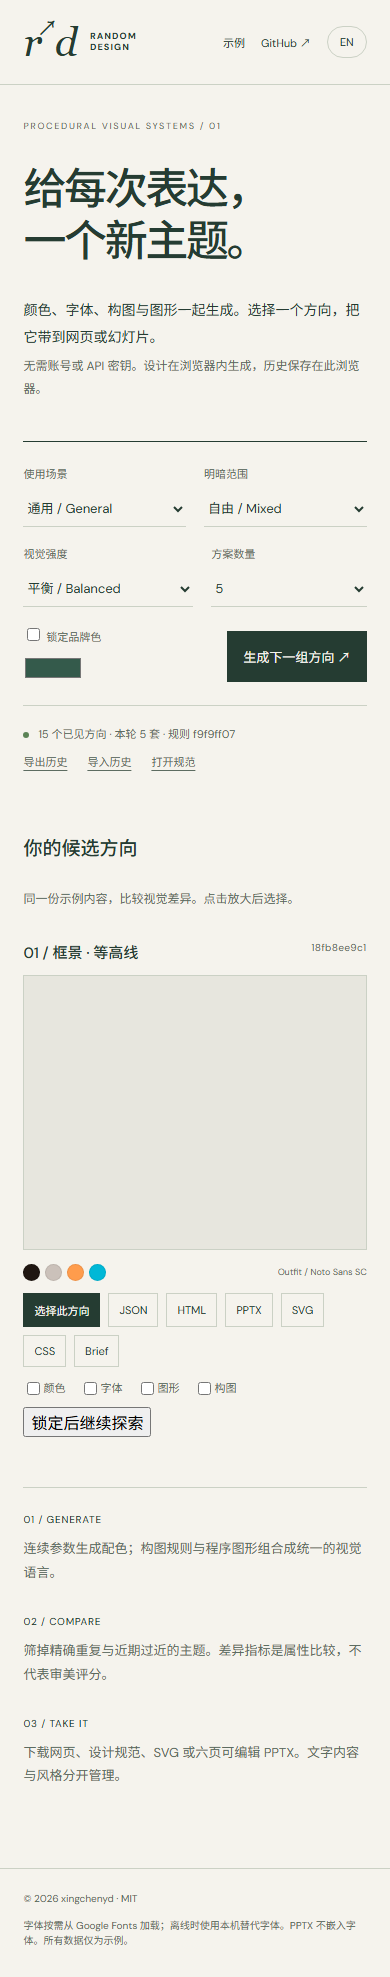
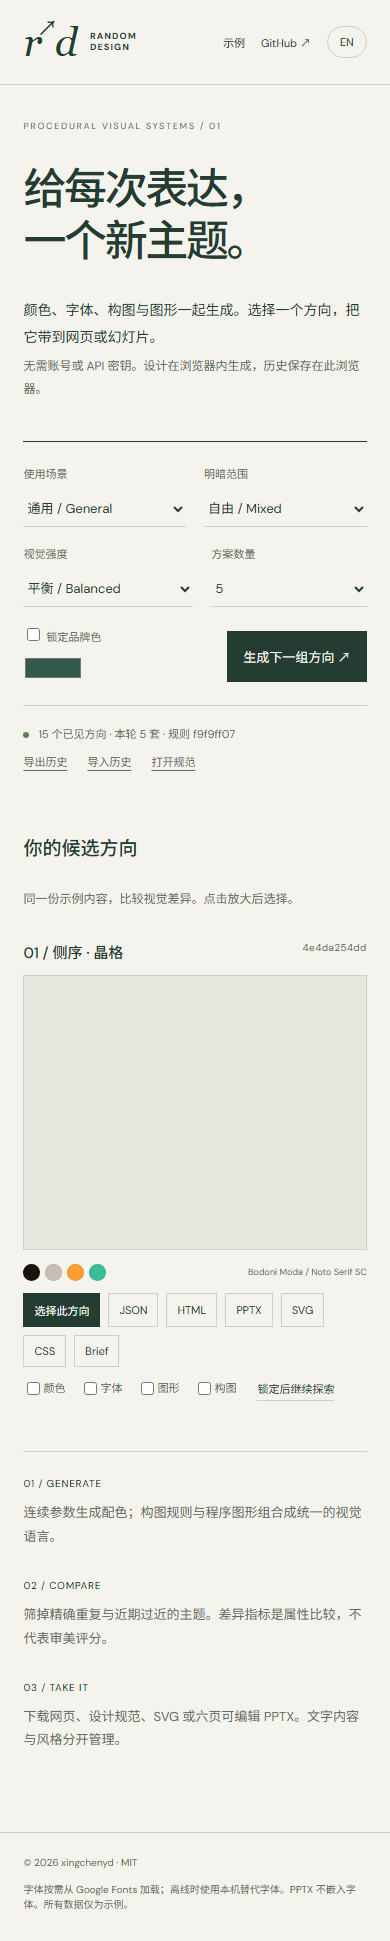
chore: verify public deployment and tidy portable build artifacts

diff --git a/studio/studio.css b/studio/studio.css
@@ -1,3 +1,4 @@
 @import url('https://fonts.googleapis.com/css2?family=DM+Sans:wght@400;500;600;700&family=Noto+Sans+SC:wght@400;500;600;700&display=swap');
 :root{--paper:#f5f3ed;--ink:#253c32;--muted:#5d6c61;--rule:#cbd1c5;--accent:#dce9ad}*{box-sizing:border-box}body{margin:0;background:var(--paper);color:var(--ink);font-family:'DM Sans','Noto Sans SC',sans-serif}a{color:inherit;text-decoration:none}button,select,input{font:inherit}button,a,input,select,.file-button{touch-action:manipulation}button{cursor:pointer}button:disabled{cursor:wait;opacity:.55}button:focus-visible,a:focus-visible,input:focus-visible,select:focus-visible,.file-button:focus-visible{outline:3px solid #437c5b;outline-offset:4px}main,.masthead,footer{max-width:1480px;margin:auto;padding-left:5%;padding-right:5%}.masthead{height:106px;display:flex;justify-content:space-between;align-items:center;border-bottom:1px solid var(--rule)}.brand{display:flex;gap:17px;align-items:center;font-size:11px;line-height:1.25;letter-spacing:.13em;font-weight:700}.mark{font:italic 49px Georgia;letter-spacing:-6px;position:relative;padding-right:7px}.mark span{font:23px system-ui;position:relative;top:-21px;letter-spacing:-4px}nav{display:flex;align-items:center;gap:30px;font-size:13px}.lang{border:1px solid var(--rule);background:none;padding:8px 12px;border-radius:30px;color:var(--ink)}.intro{padding:62px 0 50px;display:grid;grid-template-columns:1.4fr 1fr;gap:20px 70px;align-items:end}.kicker{grid-column:1/-1;font-size:11px;letter-spacing:.19em;margin:0 0 7px;color:var(--muted)}h1{font-size:clamp(40px,5vw,72px);letter-spacing:-.055em;line-height:1.2;font-weight:500;margin:0}.intro-aside{max-width:390px;justify-self:end;font-size:15px;line-height:1.9}.quiet{color:var(--muted);font-size:12px}.workbench{display:flex;align-items:stretch;border-top:1px solid var(--ink);border-bottom:1px solid var(--rule);padding:23px 0;gap:20px}.control{flex:1;min-width:0;display:flex;flex-direction:column;gap:10px}.control label{font-size:11px;color:var(--muted)}select{width:100%;border:0;border-bottom:1px solid var(--rule);background:transparent;color:var(--ink);font-size:13px;padding:8px 14px 8px 0;cursor:pointer;border-radius:0}.small{flex:.55}.brand-control{flex:.9}.brand-control input[type=color]{border:0;padding:0;width:60px;height:28px;background:none}.brand-control input[type=checkbox]{accent-color:var(--ink)}.generate{border:0;background:var(--ink);color:#f5f3ed;padding:17px 23px;align-self:end;font-size:13px;white-space:nowrap}.generate:hover{background:#41634d}.toolbar{display:flex;justify-content:space-between;gap:20px;padding:19px 0;color:var(--muted);font-size:11px;line-height:1.8}.live-dot{display:inline-block;width:6px;height:6px;border-radius:50%;background:#5b8356;margin-right:9px}.history-tools{display:flex;gap:17px;align-items:center;flex-shrink:0}.history-tools button,.file-button{background:none;border:0;padding:0;color:var(--muted);font-size:11px;text-decoration:underline;text-underline-offset:4px;cursor:pointer}.notice{border-left:3px solid #a04732;padding:12px 18px;background:#f5e9df;font-size:13px;line-height:1.7}.result-heading{display:flex;justify-content:space-between;align-items:baseline;margin:26px 0 22px;gap:20px}.result-heading h2{font-size:19px;font-weight:500}.result-heading p{font-size:12px;color:var(--muted)}.results{display:grid;grid-template-columns:repeat(2,minmax(0,1fr));gap:38px 28px}.design-card{min-width:0}.design-head{display:flex;justify-content:space-between;align-items:baseline;gap:10px;margin-bottom:12px}.design-head h3{font-size:15px;font-weight:500;margin:0}.design-head small{font-size:10px;color:var(--muted);letter-spacing:.04em}.preview-wrap{aspect-ratio:1.38;background:#e7e6de;border:1px solid var(--rule);position:relative;overflow:hidden;cursor:zoom-in}.preview-wrap iframe{width:1200px;height:870px;border:0;transform-origin:top left;pointer-events:none}.card-bottom{display:flex;align-items:center;justify-content:space-between;gap:12px;padding:14px 0 12px}.swatches{display:flex;gap:5px}.swatches span{width:17px;height:17px;border:1px solid #0001;border-radius:50%}.card-type{font-size:10px;color:var(--muted);overflow:hidden;text-overflow:ellipsis;white-space:nowrap;max-width:70%}.actions{display:flex;gap:8px;flex-wrap:wrap}.actions button,.locks label{font-size:11px;color:var(--ink);background:transparent;border:1px solid var(--rule);padding:8px 10px}.actions button:first-child{background:var(--ink);border-color:var(--ink);color:var(--paper)}.actions button:hover{border-color:var(--ink)}.locks{display:flex;gap:6px;flex-wrap:wrap;margin-top:9px}.locks label{border:0;padding:3px 0;margin-right:9px;color:var(--muted);cursor:pointer}.locks input{accent-color:var(--ink);vertical-align:middle}.selected{outline:2px solid #52744d;outline-offset:7px}.method{margin:80px 0 60px;padding-top:25px;border-top:1px solid var(--rule);display:grid;grid-template-columns:130px 1fr;gap:20px 40px}.method span{font-size:10px;letter-spacing:.08em}.method p{margin:0;font-size:13px;line-height:1.8;max-width:800px;color:var(--muted)}footer{border-top:1px solid var(--rule);display:flex;justify-content:space-between;gap:30px;padding-top:23px;padding-bottom:30px;font-size:10px;color:var(--muted)}footer p{margin:0;max-width:650px}dialog{width:95vw;max-width:1440px;height:92vh;max-height:100%;padding:0;border:0;background:var(--paper)}dialog::backdrop{background:#14271ed9}.dialog-top{display:flex;justify-content:space-between;align-items:center;height:55px;padding:0 20px;font-size:14px}dialog button{border:0;background:none;color:var(--ink)}dialog iframe{height:calc(100% - 55px);width:100%;border:0}button,input,select{max-width:100%}
+.locks button{border:0;border-bottom:1px solid var(--rule);background:transparent;font-size:11px;color:var(--ink);padding:3px 0;margin-left:6px;cursor:pointer}
 @media(min-width:1800px){.results{grid-template-columns:repeat(3,minmax(0,1fr))}}@media(max-width:850px){.intro{gap:25px;padding-top:40px}.workbench{flex-wrap:wrap;gap:18px}.control{flex-basis:26%}.small,.brand-control{flex-basis:20%}.generate{flex:1}.toolbar{flex-direction:column;gap:8px}.result-heading{align-items:start;flex-direction:column;gap:0}.results{gap:30px 20px}.design-head{align-items:start;flex-direction:column;gap:5px}.card-type{max-width:60%}}@media(max-width:580px){main,.masthead,footer{padding-left:6%;padding-right:6%}.masthead{height:85px}nav{gap:16px;font-size:11px}.brand{gap:11px;font-size:9px}.mark{font-size:40px}.intro{grid-template-columns:1fr;padding:35px 0}.intro-aside{justify-self:start;max-width:100%;font-size:14px}.intro-aside p{margin:5px 0}.kicker{font-size:9px}.results{grid-template-columns:1fr}.control{flex-basis:40%}.small,.brand-control{flex-basis:40%}.generate{width:100%;padding:16px}.design-head{flex-direction:row}.method{grid-template-columns:1fr;gap:11px;margin-top:50px}.method p{margin-bottom:20px}footer{flex-direction:column;gap:12px}.history-tools{gap:20px}.card-type{font-size:9px}h1{font-size:43px}.preview-wrap{aspect-ratio:1.25}}@media(prefers-reduced-motion:reduce){*{scroll-behavior:auto!important}}

diff --git a/scripts/build.js b/scripts/build.js
@@ -1,7 +1,16 @@
 import { build } from 'esbuild';
 import fs from 'node:fs/promises';
+import path from 'node:path';
+import { fileURLToPath } from 'node:url';
+const root = path.resolve(fileURLToPath(new URL('..', import.meta.url)));
+const output = path.resolve('dist');
+if (output !== path.join(root, 'dist')) throw new Error('Run build from the repository root');
+const resolved = await fs.realpath(output).catch(err => { if (err.code === 'ENOENT') return output; throw err; });
+if (resolved.toLowerCase() !== output.toLowerCase()) throw new Error('Refusing to clean a redirected output directory');
+await fs.rm(output, { recursive: true, force: true });
 await fs.mkdir('dist', { recursive: true });
 await build({ entryPoints: { app: 'studio/app.js', 'random-design': 'src/core/index.js' }, bundle: true, splitting: true, format: 'esm', platform: 'browser', outdir: 'dist', target: 'es2022', minify: true, sourcemap: false, legalComments: 'linked' });
 await Promise.all(['index.html', 'studio.css'].map(f => fs.copyFile(`studio/${f}`, `dist/${f}`)));
+await Promise.all(['LICENSE', 'THIRD_PARTY_NOTICES.md'].map(f => fs.copyFile(f, `dist/${f}`)));
 await fs.cp('examples', 'dist/examples', { recursive: true }).catch(err => { if (err.code !== 'ENOENT') throw err; });
 console.log('Built static studio + standalone browser engine in dist/');

diff --git a/scripts/browser-check.js b/scripts/browser-check.js
@@ -17,7 +17,7 @@ try {
   assert.equal(await page.locator('.design-card').count(), 5);
   checks.push('studio generates five directions');
   const first = await page.locator('.design-head small').allTextContents();
-  await page.screenshot({ path: 'docs/assets/studio-desktop.png', fullPage: true });
+  await page.screenshot({ path: 'docs/assets/studio-desktop.png' });
   await page.locator('#language').click(); assert.match(await page.locator('h1').innerText(), /Every time/);
   await page.locator('#language').click();
   await page.locator('#generate').click(); await page.waitForFunction(() => !document.querySelector('#generate').disabled);
